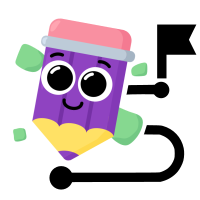
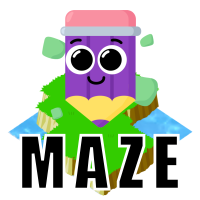
add maze

diff --git a/html5fun_set.js b/html5fun_set.js
@@ -105,6 +105,15 @@ menu_items = [
 	, ""
 	],
 		
+	[ "文字迷宮"
+	, "Maze 文字迷宮"
+	, "html5_maze/assets/icon.png"
+	, "https://gsyan888.blogspot.com/2025/04/html5-maze.html"
+	, ""
+	, "https://gsyan888.blogspot.com/2025/04/html5-maze.html"
+	, "maze"
+	],
+	
 	[ "青蛙過河"
 	, "Frog 青蛙過河"
 	, "html5_frog/assets/icon.png"
